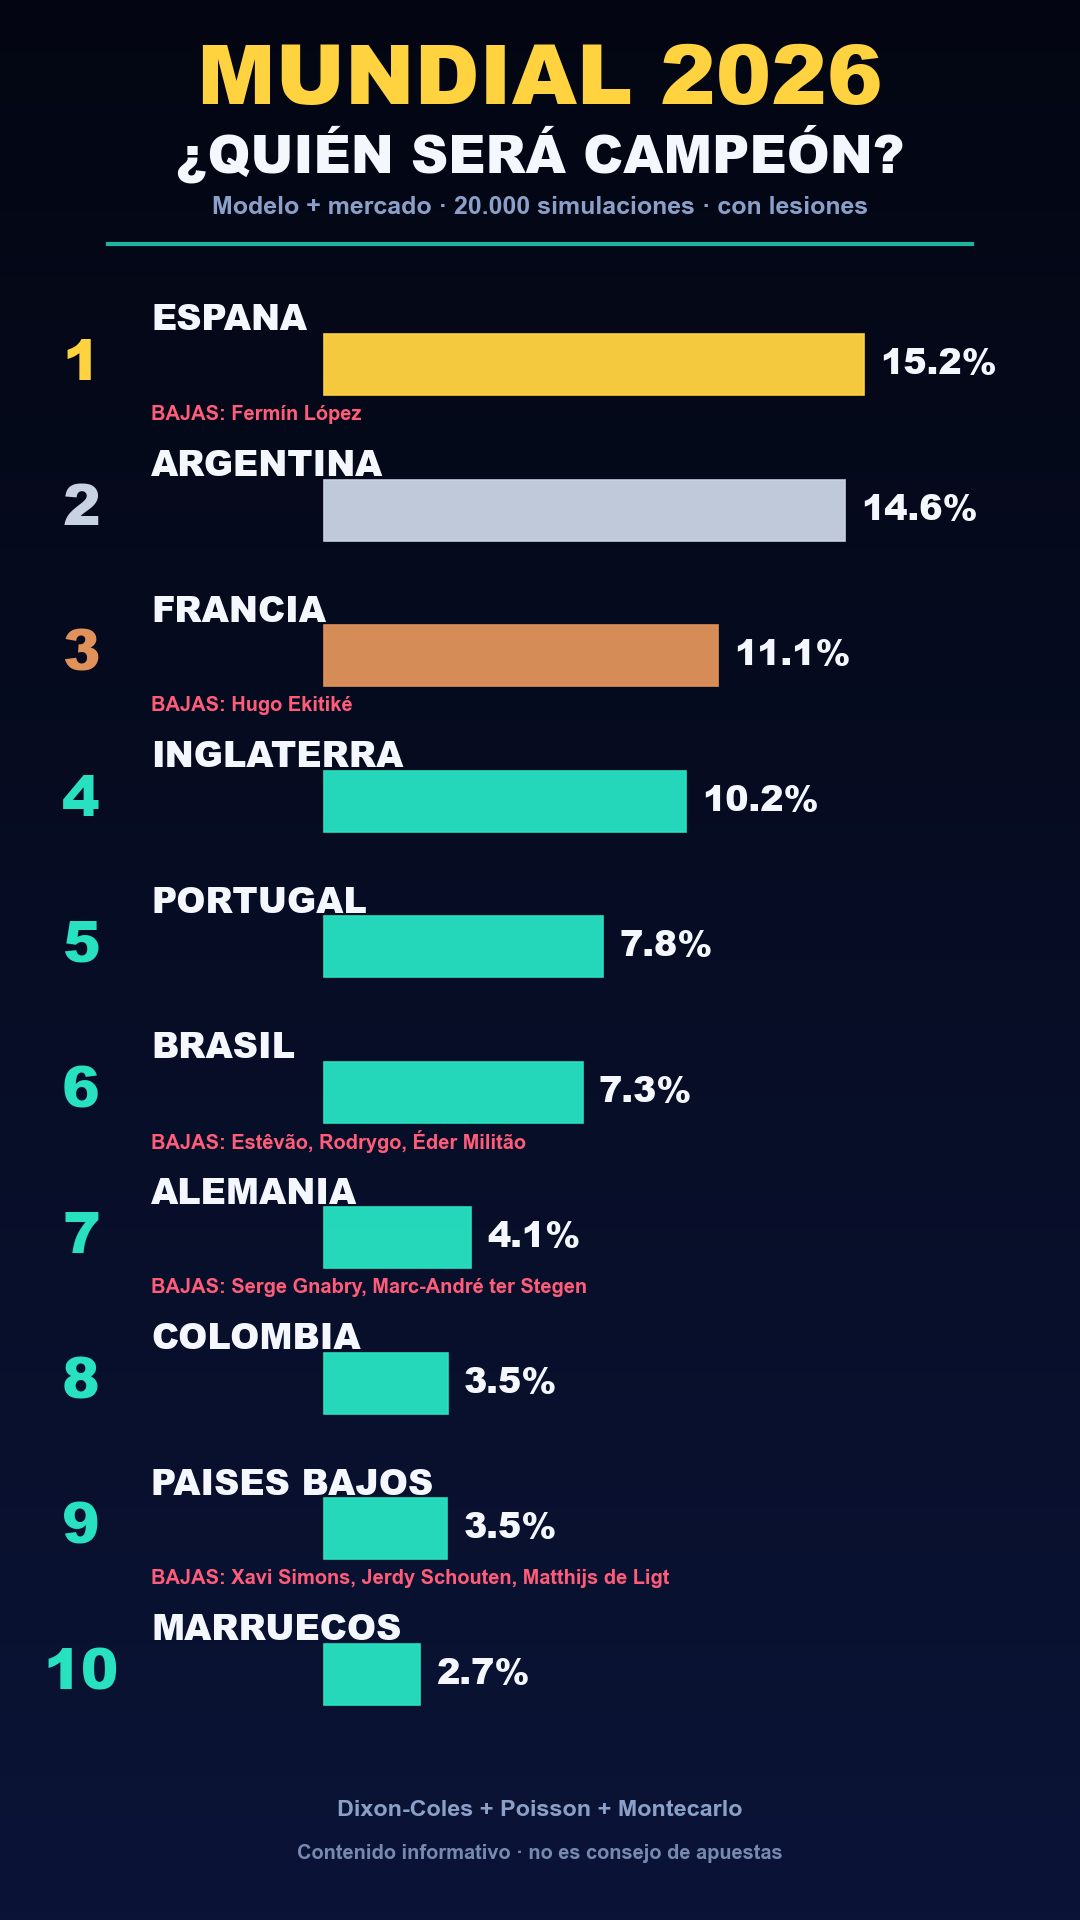
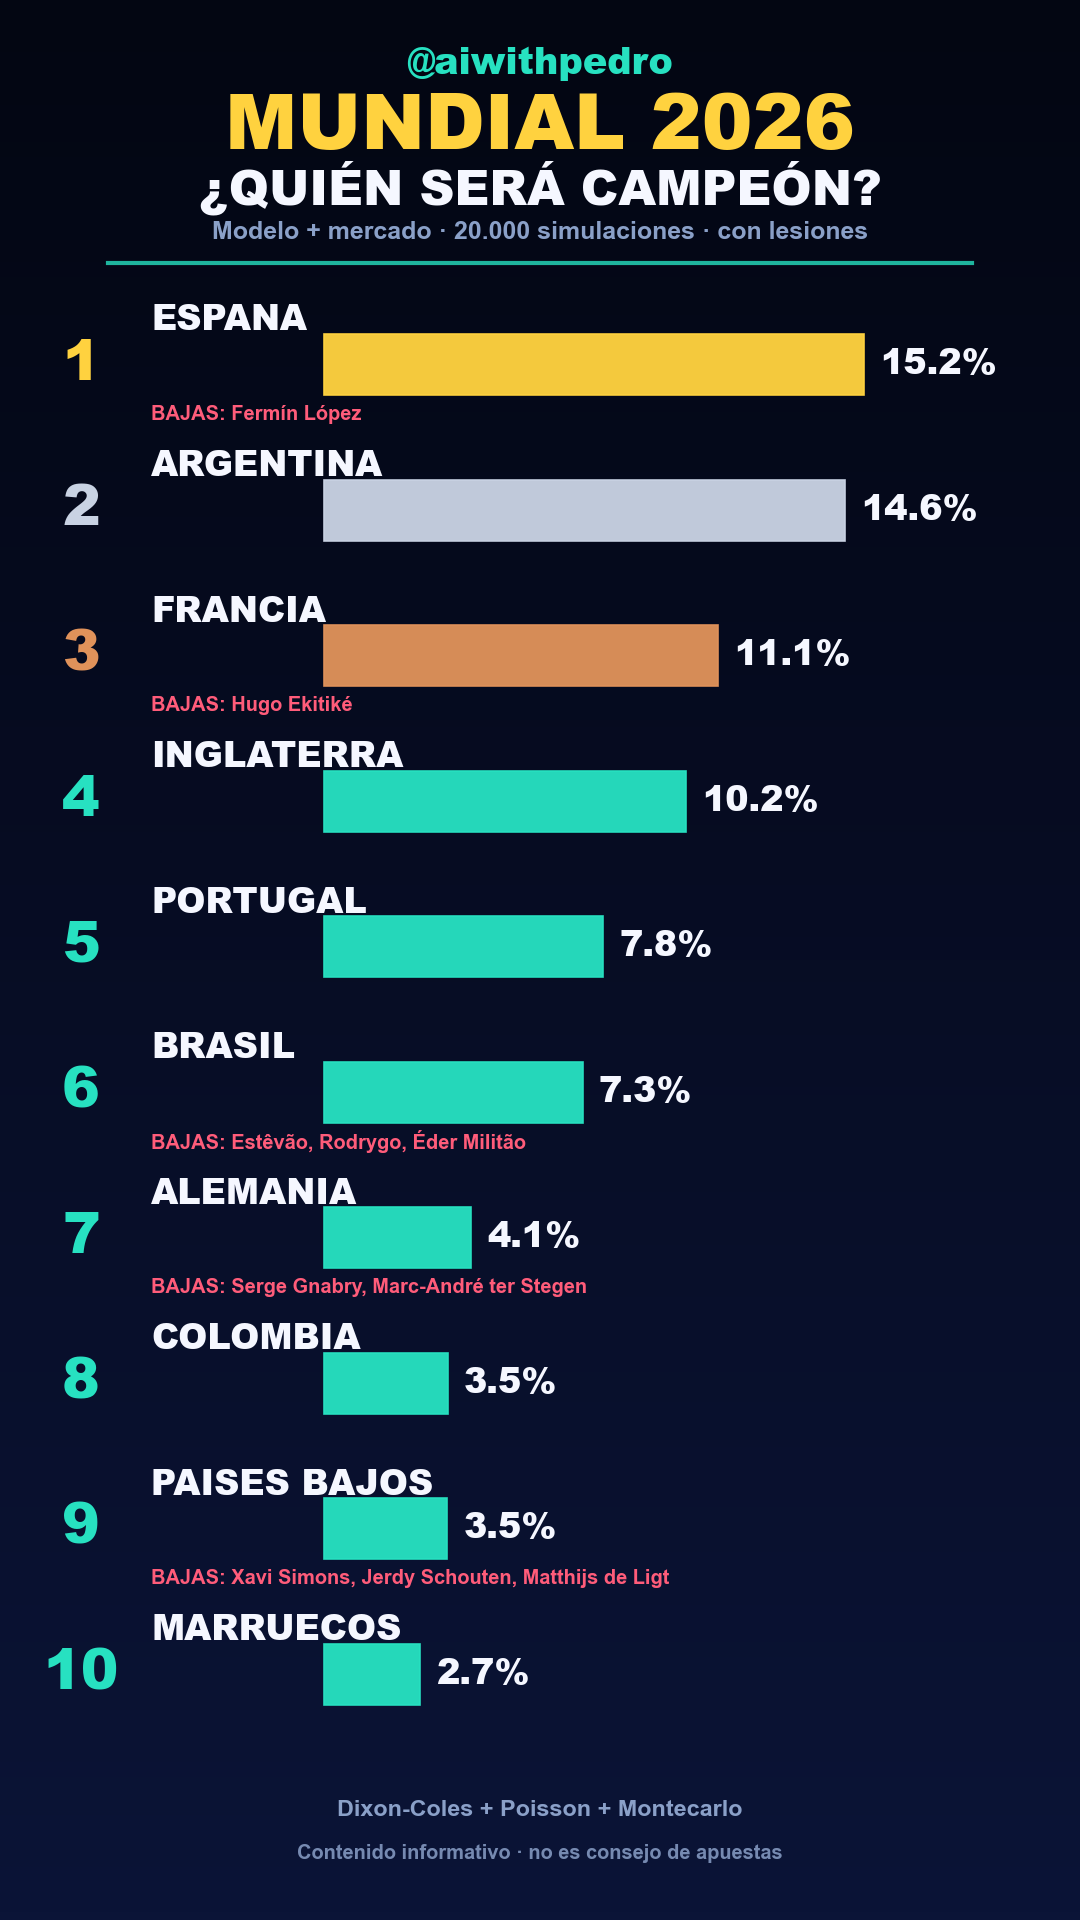
Marca aiwithpedro en digest y grafico TikTok; idioma espanol

Changed region(s): [[0.0917, 0.0, 0.8861, 0.1562]]

diff --git a/make_tiktok.py b/make_tiktok.py
@@ -62,13 +62,15 @@ def main():
     ax.imshow(grad_rgb.reshape(256, 1, 3), extent=[0, 1, 0, 1], aspect="auto", zorder=0)
 
     # --- cabecera ---
-    ax.text(0.5, 0.957, "MUNDIAL 2026", ha="center", va="center", color=GOLD,
-            fontproperties=black(50), zorder=5)
-    ax.text(0.5, 0.920, "¿QUIÉN SERÁ CAMPEÓN?", ha="center", va="center", color=WHITE,
-            fontproperties=black(31), zorder=5)
-    ax.text(0.5, 0.892, "Modelo + mercado · 20.000 simulaciones · con lesiones",
+    ax.text(0.5, 0.967, "@aiwithpedro", ha="center", va="center", color=CYAN,
+            fontproperties=black(22), zorder=5)
+    ax.text(0.5, 0.933, "MUNDIAL 2026", ha="center", va="center", color=GOLD,
+            fontproperties=black(46), zorder=5)
+    ax.text(0.5, 0.902, "¿QUIÉN SERÁ CAMPEÓN?", ha="center", va="center", color=WHITE,
+            fontproperties=black(29), zorder=5)
+    ax.text(0.5, 0.879, "Modelo + mercado · 20.000 simulaciones · con lesiones",
             ha="center", va="center", color=MUTE, fontproperties=heavy(15), zorder=5)
-    ax.plot([0.1, 0.9], [0.873, 0.873], color=CYAN, lw=2.5, alpha=0.8, zorder=5)
+    ax.plot([0.1, 0.9], [0.863, 0.863], color=CYAN, lw=2.5, alpha=0.8, zorder=5)
 
     # --- barras ---
     top_y, bot_y = 0.848, 0.090

diff --git a/daily_digest.py b/daily_digest.py
@@ -31,6 +31,7 @@ except Exception:
     pass
 import predict_match as pm   # reutiliza fit_model, apply_adjustments, one_x_two, MAP, HOSTS
 
+BRAND = "aiwithpedro"
 DISCLAIMER = ("Contenido informativo y de entretenimiento. No es consejo de apuestas ni "
               "garantía de resultados. +18. Juega con responsabilidad.")
 
@@ -81,7 +82,7 @@ def build_digest(target):
     sq = pm.apply_adjustments(atk, dfn)
     def bajas(t): return [n for n,w,av in sq.get(t,{}).get("key_players",[]) if not av]
 
-    md = [f"# ⚽ Mundial 2026 — Pronóstico del día · {fecha_h}\n"]
+    md = [f"# ⚽ {BRAND} · Mundial 2026", f"### Pronóstico del día · {fecha_h}\n"]
     if not games:
         md.append("_Hoy no hay partidos del Mundial._ El torneo arranca el **11 de junio**.\n")
     else:
@@ -101,7 +102,8 @@ def build_digest(target):
         md.append("## 🏆 Carrera por el título (hoy)")
         for t, v in top: md.append(f"- {t}: **{v:.1f}%**")
         md.append("")
-    md.append(f"---\n_{DISCLAIMER}_")
+    md.append(f"---\n**{BRAND}** · Mundial de fútbol 2026\n")
+    md.append(f"_{DISCLAIMER}_")
     text = "\n".join(md)
 
     # HTML simple a partir del markdown (suficiente para email/newsletter)

diff --git a/PRD_premium.md b/PRD_premium.md
@@ -192,10 +192,13 @@ muestra del premium) → CTA al **Pase Mundial** → Discord premium → retenci
   Canadá, versión gratis, API para envío automático; alternativa: Buttondown).
 - **Envío:** **email automático** (adaptador Resend ya implementado en `daily_digest.py`).
 
+**Decidido (2026-06-03, cont.):**
+- **Idioma:** solo **español**.
+- **Marca:** **aiwithpedro** (handle **@aiwithpedro**) · producto "Mundial de fútbol 2026".
+  Ya aplicada al digest y al gráfico de TikTok.
+
 **Pendiente de decidir:**
-1. ¿Idioma(s)? (español; ¿también inglés?)
-2. ¿Precio final y peso del "Pase Mundial" vs mensual?
-3. ¿Marca/nombre y handle de las redes?
+1. ¿Precio final y peso del "Pase Mundial" vs mensual? (propuesta: Premium $4/mes, Pase $9.99)
 
 **Estado de construcción:** `daily_digest.py` YA construido y probado (genera el digest de
 todos los partidos del día + carrera por el título, en Markdown/HTML, con envío opcional por
